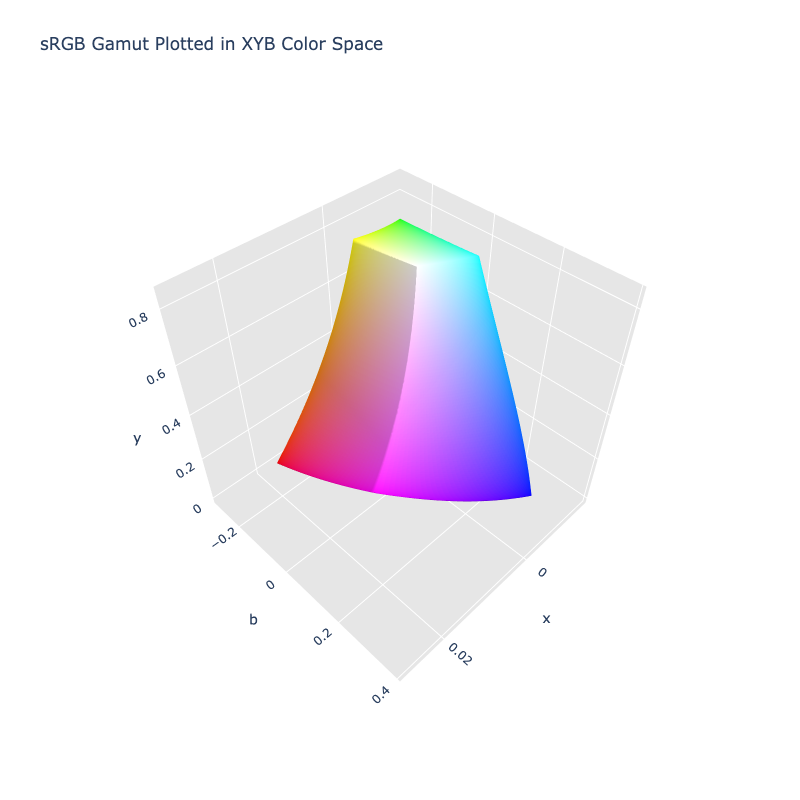
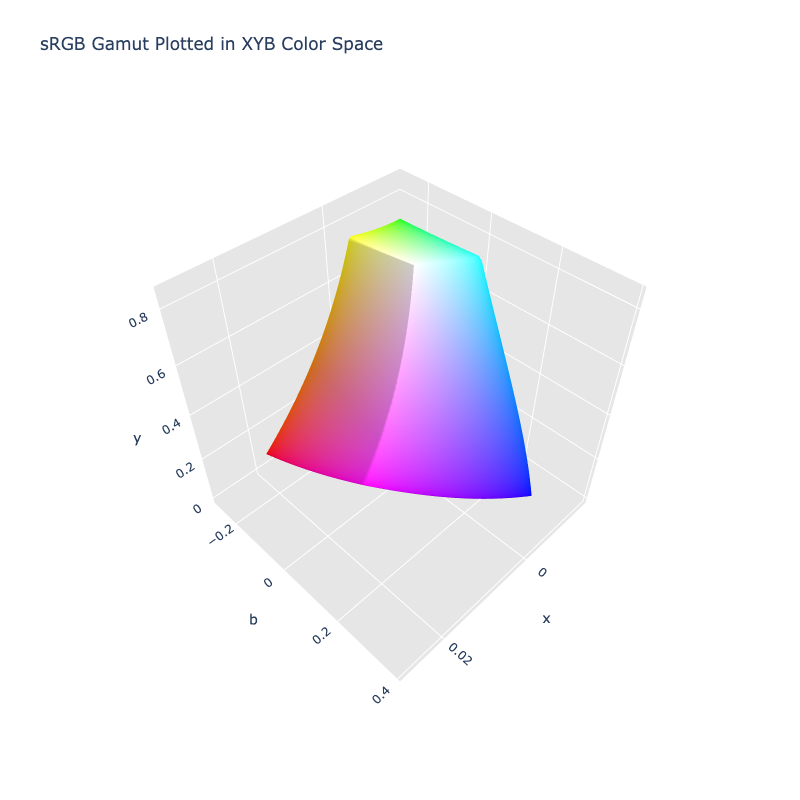
Fix XYB conversion (#463)
The default form of XYB has X = B = 0 for achromatic colors. This was
done by altering the XYB transform matrix to do the LMS to XYB
conversion and apply B - Y, but we had done so incorrectly. The matrix
that incorporates this change should have been:

XYB_LMS_TO_XYB = [
    [0.5, -0.5, 0.0],
    [0.5, 0.5, 0.0],
    [-0.5, -0.5, 1.0]
]

We mistakenly applied the logic in reverse applying to the forward
transform which should have been in the inverse transform and vice
versa. It resulted in the same X = B = 0, but non achromatic colors
were not quite right.

With all of that said, instead of using a clever matrix to do the XYB
transform and subtract Y from B, we now use the standard matrix and then
just subtract Y from B at the end. We verified both were equivalent, but
the later approach makes it more clear what we are doing.

diff --git a/docs/theme/playground-config-d112cc38.js b/docs/theme/playground-config-d112cc38.js
@@ -1,0 +1,5 @@
+var colorNotebook = {
+    "playgroundWheels": ['micropip', 'pygments-2.19.1-py3-none-any.whl', 'coloraide-4.4.1-py3-none-any.whl'],
+    "notebookWheels": ['pyyaml', 'Markdown-3.7-py3-none-any.whl', 'pymdown_extensions-10.14.3-py3-none-any.whl', 'micropip', 'pygments-2.19.1-py3-none-any.whl', 'coloraide-4.4.1-py3-none-any.whl'],
+    "defaultPlayground": "import coloraide\ncoloraide.__version__\nColor('red')"
+}

diff --git a/docs/src/markdown/demos/colorpicker.html b/docs/src/markdown/demos/colorpicker.html
@@ -421,7 +421,7 @@
     let pyodide = null
     let webspace = ''
     let initial = 'oklab(0.69 0.13 -0.1 / 0.85)'
-    let package = 'coloraide-4.4-py3-none-any.whl'
+    let package = 'coloraide-4.4.1-py3-none-any.whl'
 
     const base = `${window.location.origin}/${window.location.pathname.split('/')[1]}/playground/`
     package = base + package

diff --git a/docs/src/markdown/demos/3d_models.html b/docs/src/markdown/demos/3d_models.html
@@ -919,7 +919,7 @@ let busyTarget = null
 let colorSpaces = null
 let colorGamuts = null
 let lastModel = null
-let package = 'coloraide-4.4-py3-none-any.whl'
+let package = 'coloraide-4.4.1-py3-none-any.whl'
 const defaultSpace = 'lab'
 const defaultGamut = 'srgb'
 const exceptions = new Set(['hwb', 'ryb', 'ryb-biased'])

diff --git a/coloraide/spaces/xyb.py b/coloraide/spaces/xyb.py
@@ -25,34 +25,35 @@ LMS_TO_LRGB = [
     [-3.6588512867136815, 2.712923045936092, 1.945928240777589]
 ]
 
-# https://twitter.com/jonsneyers/status/1605321352143331328
-# @jonsneyers Feb 22
-# Yes, the default is to just subtract Y from B. In general there are locally
-# signaled float multipliers to subtract some multiple of Y from X and some
-# other multiple from B. But this is the baseline, making X=B=0 grayscale.
-# ----
-# We adjust the matrix to subtract Y from B match this statement.
 XYB_LMS_TO_XYB = [
     [0.5, -0.5, 0.0],
     [0.5, 0.5, 0.0],
-    [0.0, -1.0, 1.0],
+    [0.0, 0.0, 1.0]
 ]
 
 XYB_TO_XYB_LMS = [
     [1.0, 1.0, 0.0],
     [-1.0, 1.0, 0.0],
-    [-1.0, 1.0, 1.0]
+    [0.0, 0.0, 1.0]
 ]
 
 
 def rgb_to_xyb(rgb: Vector) -> Vector:
     """Linear sRGB to XYB."""
 
-    return alg.matmul_x3(
+    xyb = alg.matmul_x3(
         XYB_LMS_TO_XYB,
         [alg.nth_root(c + BIAS, 3) - BIAS_CBRT for c in alg.matmul_x3(LRGB_TO_LMS, rgb, dims=alg.D2_D1)],
         dims=alg.D2_D1
     )
+
+    # https://twitter.com/jonsneyers/status/1605321352143331328
+    # @jonsneyers Feb 22
+    # Yes, the default is to just subtract Y from B. In general there are locally
+    # signaled float multipliers to subtract some multiple of Y from X and some
+    # other multiple from B. But this is the baseline, making X=B=0 grayscale.
+    xyb[2] -= xyb[1]
+    return xyb
 
 
 def xyb_to_rgb(xyb: Vector) -> Vector:
@@ -62,6 +63,7 @@ def xyb_to_rgb(xyb: Vector) -> Vector:
     if not any(xyb):
         return [0.0] * 3
 
+    xyb[2] += xyb[1]
     return alg.matmul_x3(
         LMS_TO_LRGB,
         [(c + BIAS_CBRT) ** 3 - BIAS for c in alg.matmul_x3(XYB_TO_XYB_LMS, xyb, dims=alg.D2_D1)],

diff --git a/tests/test_xyb.py b/tests/test_xyb.py
@@ -9,13 +9,13 @@ class TestXYB(util.ColorAssertsPyTest):
     """Test XYB."""
 
     COLORS = [
-        ('red', 'color(--xyb 0.0281 0.48819 0.01157)'),
-        ('orange', 'color(--xyb 0.01132 0.64596 -0.10359)'),
+        ('red', 'color(--xyb 0.0281 0.48819 -0.01653)'),
+        ('orange', 'color(--xyb 0.01132 0.64596 -0.1149)'),
         ('yellow', 'color(--xyb 0 0.81867 -0.20719)'),
-        ('green', 'color(--xyb -0.0091 0.36999 -0.17163)'),
+        ('green', 'color(--xyb -0.0091 0.36999 -0.16253)'),
         ('blue', 'color(--xyb 0 0.27813 0.38801)'),
-        ('indigo', 'color(--xyb 0.00704 0.18547 0.18989)'),
-        ('violet', 'color(--xyb 0.01268 0.60656 0.15033)'),
+        ('indigo', 'color(--xyb 0.00704 0.18547 0.18285)'),
+        ('violet', 'color(--xyb 0.01268 0.60656 0.13766)'),
         ('white', 'color(--xyb 0 0.84531 0)'),
         ('gray', 'color(--xyb 0 0.44741 0)'),
         ('black', 'color(--xyb 0 0 0)'),

diff --git a/coloraide/__meta__.py b/coloraide/__meta__.py
@@ -193,5 +193,5 @@ def parse_version(ver: str) -> Version:
     return Version(major, minor, micro, release, pre, post, dev)
 
 
-__version_info__ = Version(4, 4, 0, "final")
+__version_info__ = Version(4, 4, 1, "final")
 __version__ = __version_info__._get_canonical()

diff --git a/docs/src/markdown/about/changelog.md b/docs/src/markdown/about/changelog.md
@@ -1,5 +1,9 @@
 # Changelog
 
+## 4.4.1
+
+-   **FIX**: Fix XYB transform.
+
 ## 4.4
 
 -   **NEW**: Add support for the CAM02 color model and add the CAM02 JMh, CAM02 UCS, CAM02 SCD, and CAM02 LCD color
